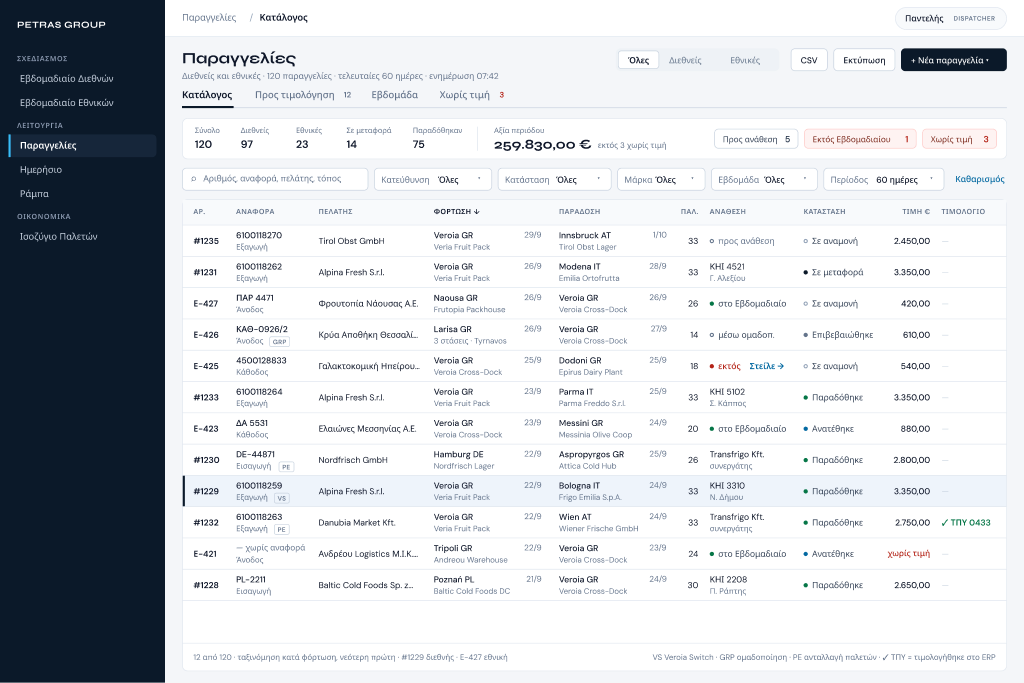
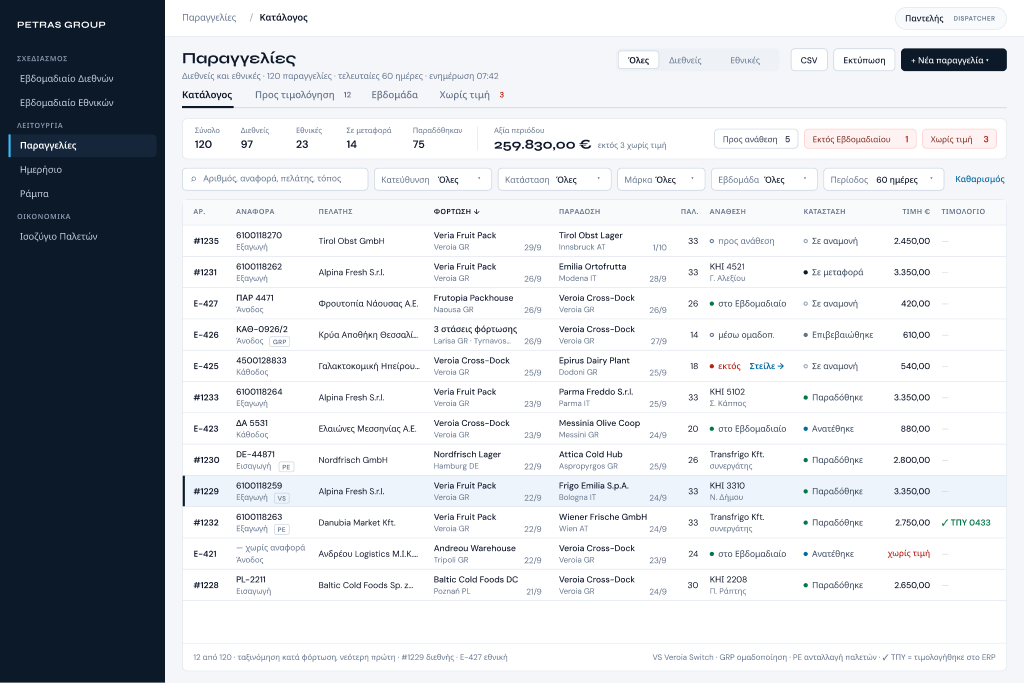
docs: redesign παραγγελιών γ.6 — ονομασία σημείου ως κύρια γραμμή, πόλη/χώρα με γκρι από κάτω (owner 28/9)· screenshots δεδομένων επίδειξης

Changed region(s): [[0.4062, 0.3382, 0.6562, 0.8917], [0.625, 0.8609, 0.6562, 0.8917]]

diff --git a/docs/data-audit/2026-09/2026-09-27-orders-redesign.md b/docs/data-audit/2026-09/2026-09-27-orders-redesign.md
@@ -142,3 +142,7 @@ Screenshots: `shots/orders-redesign-r6-{A-catalog,B-invoicing,G-week,H-no-price,
 **Αποφάσεις owner:** βλέπει η Ειρήνη την «Εβδομάδα»; · Εβδομάδα ανά εκκίνηση RT (σήμερα 2 μπλοκαρισμένες) ή ανά
 παράδοση όπως η τιμολόγηση (3); · εθνική εκτός Εβδομαδιαίου με περασμένη ημερομηνία μετρά ως παραδομένη; ·
 βλέπει ο dispatcher την «Προς τιμολόγηση» (μόνο ανάγνωση);
+
+**Owner 28/9 (συμπλήρωση):** στα κελιά ΦΟΡΤΩΣΗ / ΠΑΡΑΔΟΣΗ κύρια γραμμή = **ονομασία σημείου** (π.χ. «Veria Fruit Pack»),
+από κάτω με γκρι **πόλη + χώρα** και η ημερομηνία δεξιά. Ισχύει σε Κατάλογο, Προς τιμολόγηση, Χωρίς τιμή και στην
+καρτέλα τιμολόγησης (Φόρτωση / Παράδοση). Groupage: «3 στάσεις φόρτωσης» με τις πόλεις από κάτω.
